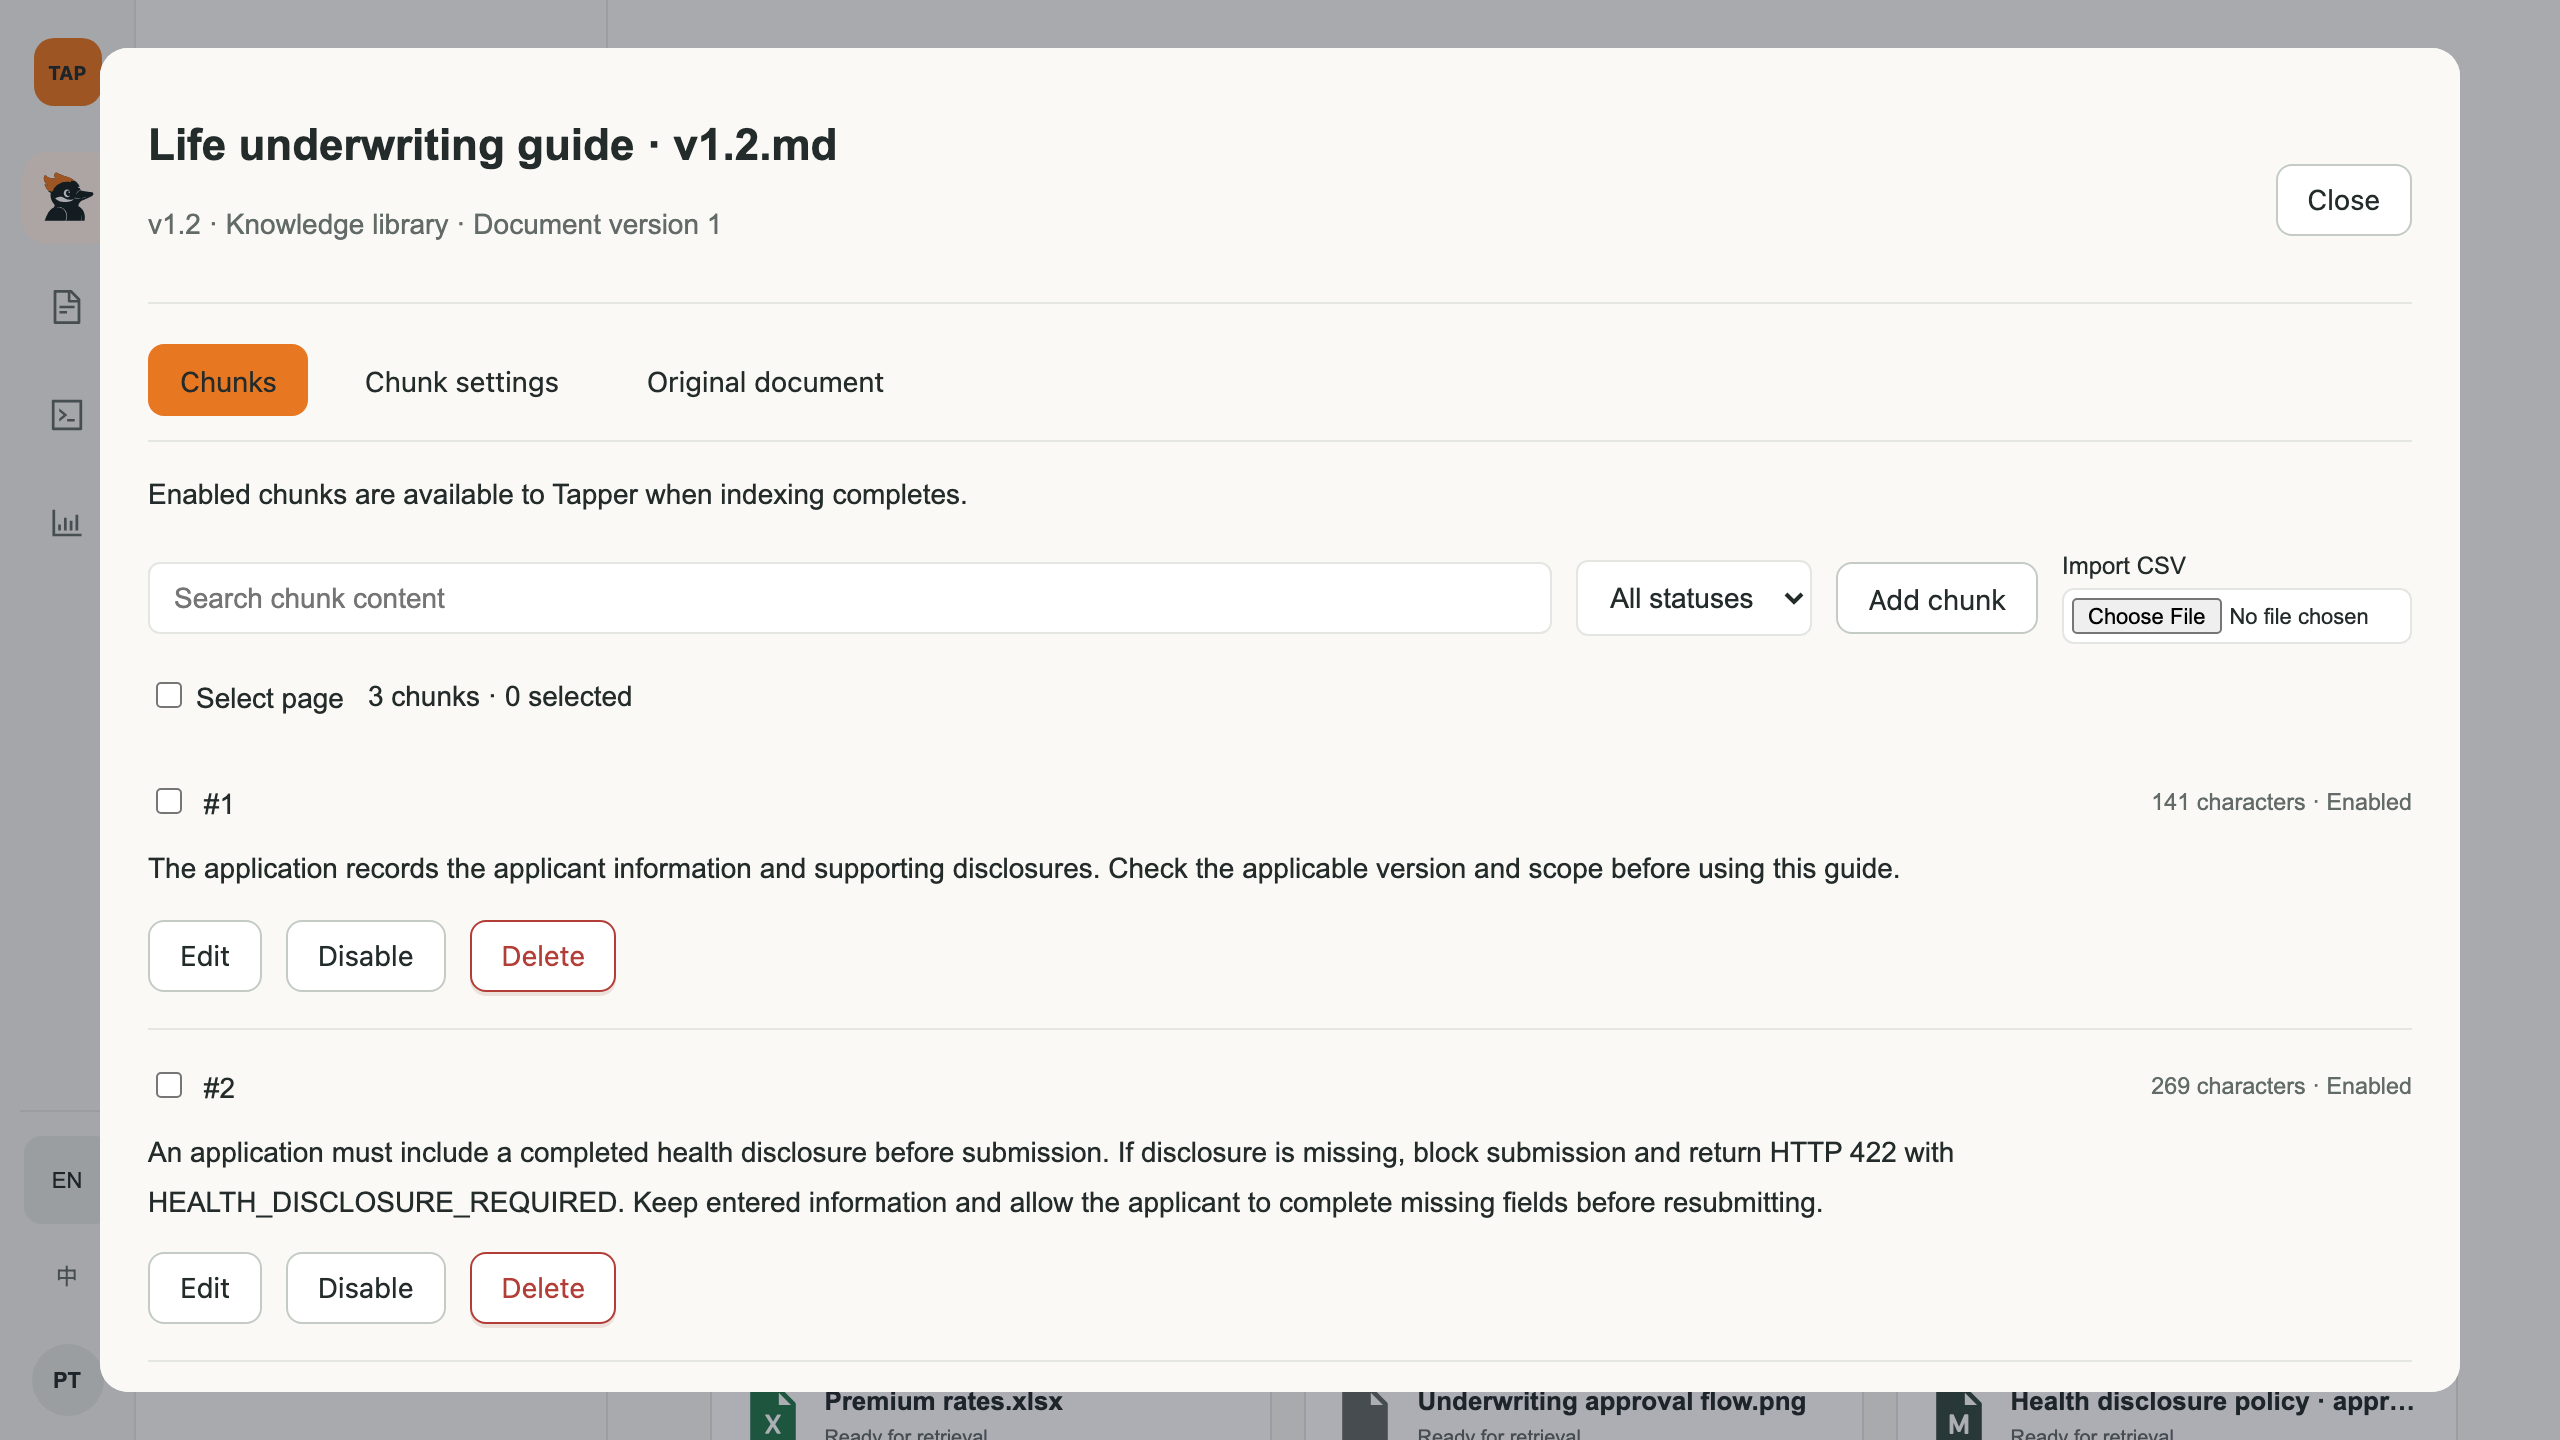
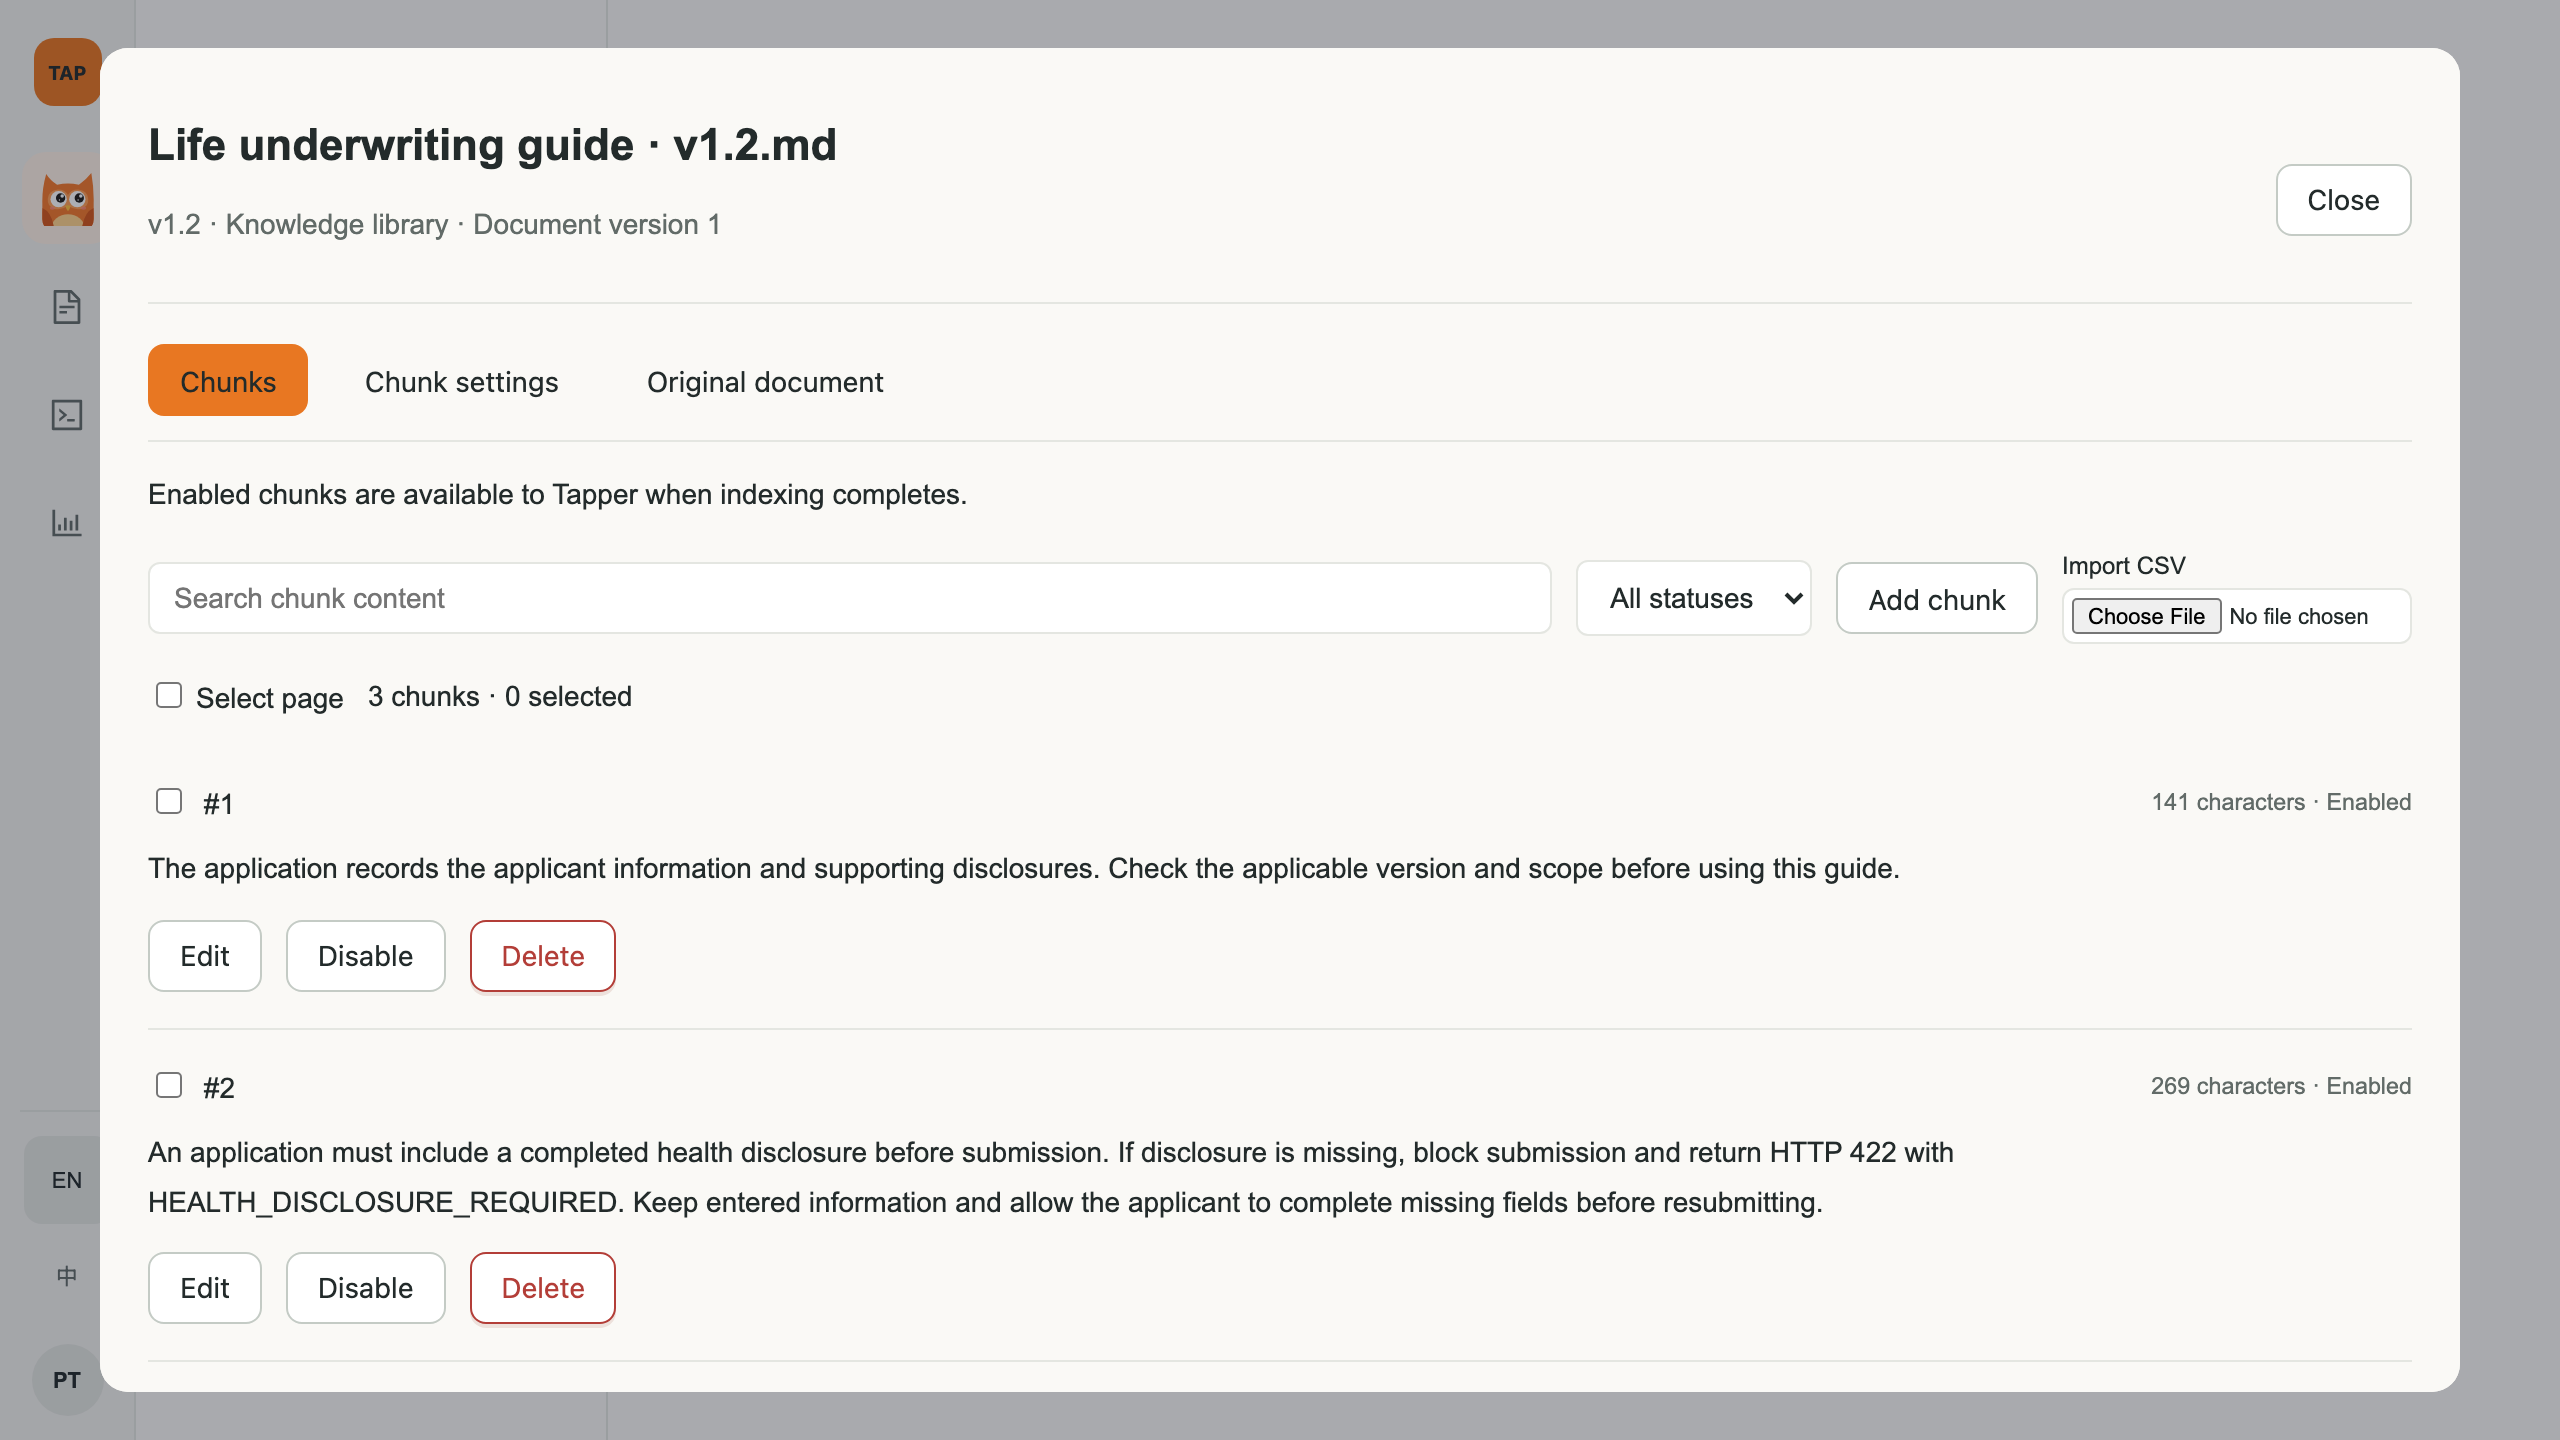
docs: recapture owl screenshots and fix knowledge graph layout
Recapture every README and customer demo guide screenshot that still
showed the retired woodpecker so they show the current owl brand.
Rewrite demo flow one around ADR-030 chunk maintenance (original
document, chunk edit, index ready) since the prototype no longer has
the review, handoff and publish workbench.

Stack the graph view switch above the graph workspace; the flex row
tabpanel was rendering it as a separate column. Add the structured
capability to the TAP AI capture fixture so ui-capture runs again.

diff --git a/apps/tap-ai-frontend/tests/e2e/ui-capture.spec.ts b/apps/tap-ai-frontend/tests/e2e/ui-capture.spec.ts
@@ -24,7 +24,7 @@ test.beforeEach(async ({ page }) => {
           {
             alias: "qwen-plus",
             displayName: "Capture model",
-            capabilities: ["chat"],
+            capabilities: ["chat", "structured"],
           },
         ],
       };
@@ -142,7 +142,7 @@ test("captures a restored Insights explanation before and after refresh", async 
           {
             alias: "qwen-plus",
             displayName: "Capture model",
-            capabilities: ["chat"],
+            capabilities: ["chat", "structured"],
           },
         ],
       };

diff --git a/apps/web/src/widgets/tap/TapProductPrototype.css b/apps/web/src/widgets/tap/TapProductPrototype.css
@@ -4965,8 +4965,13 @@
 }
 .tap-library--graph > [role="tabpanel"]:not([hidden]) {
   display: flex;
+  flex-direction: column;
   flex: 1;
   min-height: 440px;
+}
+.tap-library--graph > [role="tabpanel"] > .tap-graph-workspace,
+.tap-library--graph > [role="tabpanel"] > .tap-catalog-empty {
+  flex: 1;
 }
 .tap-graph-workspace {
   --graph-communities-width: 216px;
